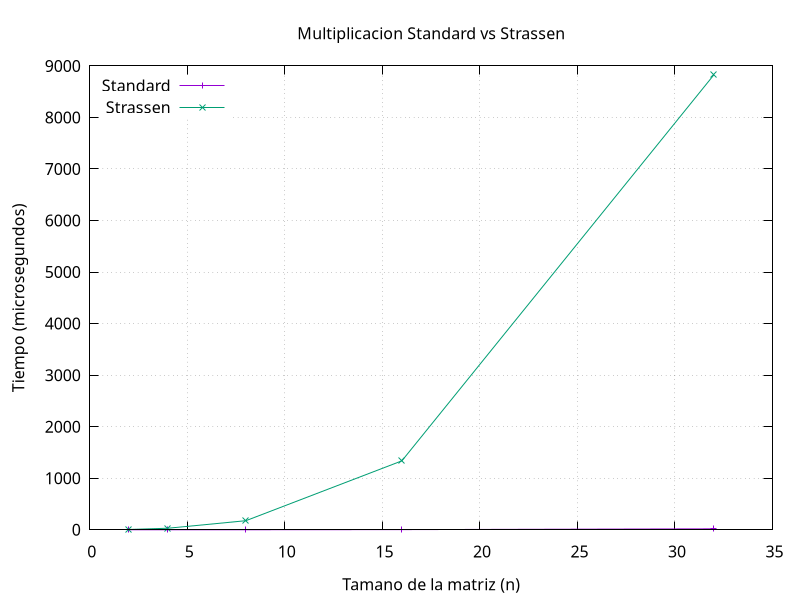
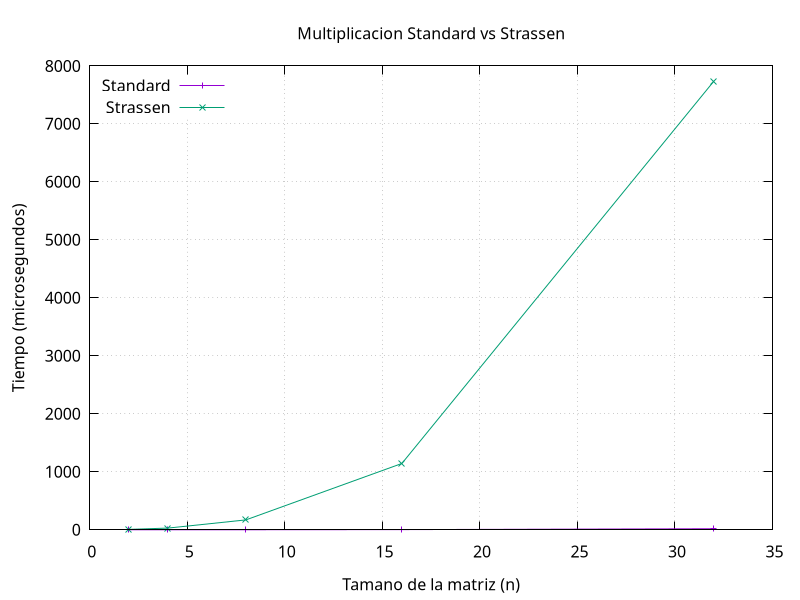
Refactorizacion de codigo sin intento en la solucion del rendimiento para Strassen

diff --git a/main.cpp b/main.cpp
@@ -12,6 +12,28 @@ void matrixMultiplication(std::vector<std::vector<int>>& A, std::vector<std::vec
     }
 }
 
+std::vector<std::vector<int>> add(std::vector<std::vector<int>>& A, std::vector<std::vector<int>>& B){
+    int n = A.size();
+    std::vector<std::vector<int>> result(n, std::vector<int>(n, 0));
+    for(int i = 0; i < n; i++) {
+        for(int j = 0; j < n; j++) {
+            result[i][j] = A[i][j] + B[i][j];
+        }
+    }
+    return result;
+}
+
+std::vector<std::vector<int>> subtract(std::vector<std::vector<int>>& A, std::vector<std::vector<int>>& B){
+    int n = A.size();
+    std::vector<std::vector<int>> result(n, std::vector<int>(n, 0));
+    for(int i = 0; i < n; i++) {
+        for(int j = 0; j < n; j++) {
+            result[i][j] = A[i][j] - B[i][j];
+        }
+    }
+    return result;
+}
+
 std::vector<std::vector<int>> matrixStrassen(std::vector<std::vector<int>>& A, std::vector<std::vector<int>>& B, std::vector<std::vector<int>>& C, int n){
     if(A.size() == 1 && B.size() == 1){
         C[0][0] = A[0][0] * B[0][0];
@@ -45,74 +67,35 @@ std::vector<std::vector<int>> matrixStrassen(std::vector<std::vector<int>>& A, s
             submatrixB_22[i][j] = B[i+subSize][j+subSize];
         }
     }
-    
     std::vector<std::vector<int>> P_1(subSize, std::vector<int>(subSize, 0));
-    std::vector<std::vector<int>> auxSubtract_1(subSize, std::vector<int>(subSize, 0));
-    for(int i = 0; i < subSize; i++){
-        for(int j = 0; j < subSize; j++){
-            auxSubtract_1[i][j]= submatrixB_12[i][j] - submatrixB_22[i][j];
-        }
-    }
+    std::vector<std::vector<int>> auxSubtract_1 = subtract(submatrixB_12, submatrixB_22);
     matrixStrassen(submatrixA_11, auxSubtract_1, P_1, subSize);
     
     std::vector<std::vector<int>> P_2(subSize, std::vector<int>(subSize, 0));
-    std::vector<std::vector<int>> auxAdd_2(subSize, std::vector<int>(subSize, 0));
-    for(int i = 0; i < subSize; i++){
-        for(int j = 0; j < subSize; j++){
-            auxAdd_2[i][j] = submatrixA_11[i][j] + submatrixA_12[i][j];
-        }
-    }
+    std::vector<std::vector<int>> auxAdd_2 = add(submatrixA_11, submatrixA_12);
     matrixStrassen(auxAdd_2, submatrixB_22, P_2, subSize);
 
     std::vector<std::vector<int>> P_3(subSize, std::vector<int>(subSize, 0));
-    std::vector<std::vector<int>> auxAdd_3(subSize, std::vector<int>(subSize, 0));
-    for(int i = 0; i < subSize; i++){
-        for(int j = 0; j < subSize; j++){
-            auxAdd_3[i][j] = submatrixA_21[i][j] + submatrixA_22[i][j];
-        }
-    }
+    std::vector<std::vector<int>> auxAdd_3 = add(submatrixA_21, submatrixA_22);
     matrixStrassen(auxAdd_3, submatrixB_11, P_3, subSize);
 
     std::vector<std::vector<int>> P_4(subSize, std::vector<int>(subSize, 0));
-    std::vector<std::vector<int>> auxSubtract_4(subSize, std::vector<int>(subSize, 0));
-    for(int i = 0; i < subSize; i++){
-        for(int j = 0; j < subSize; j++){
-            auxSubtract_4[i][j] = submatrixB_21[i][j] - submatrixB_11[i][j];
-        }
-    }
+    std::vector<std::vector<int>> auxSubtract_4 = subtract(submatrixB_21, submatrixB_11);
     matrixStrassen(submatrixA_22, auxSubtract_4, P_4, subSize);
 
     std::vector<std::vector<int>> P_5(subSize, std::vector<int>(subSize, 0));
-    std::vector<std::vector<int>> auxAdd_5A(subSize, std::vector<int>(subSize, 0));
-    std::vector<std::vector<int>> auxAdd_5B(subSize, std::vector<int>(subSize, 0));
-    for(int i = 0; i < subSize; i++){
-        for(int j = 0; j < subSize; j++){
-            auxAdd_5A[i][j] = submatrixA_11[i][j] + submatrixA_22[i][j];
-            auxAdd_5B[i][j] = submatrixB_11[i][j] + submatrixB_22[i][j];
-        }
-    }
+    std::vector<std::vector<int>> auxAdd_5A = add(submatrixA_11, submatrixA_22);
+    std::vector<std::vector<int>> auxAdd_5B = add(submatrixB_11, submatrixB_22);
     matrixStrassen(auxAdd_5A, auxAdd_5B, P_5, subSize);
 
     std::vector<std::vector<int>> P_6(subSize, std::vector<int>(subSize, 0));
-    std::vector<std::vector<int>> auxSubtract_6(subSize, std::vector<int>(subSize, 0));
-    std::vector<std::vector<int>> auxAdd_6(subSize, std::vector<int>(subSize, 0));
-    for(int i = 0; i < subSize; i++){
-        for(int j = 0; j < subSize; j++){
-            auxSubtract_6[i][j] = submatrixA_12[i][j] - submatrixA_22[i][j];
-            auxAdd_6[i][j] = submatrixB_21[i][j] + submatrixB_22[i][j];
-        }
-    }
+    std::vector<std::vector<int>> auxSubtract_6 = subtract(submatrixA_12, submatrixA_22);
+    std::vector<std::vector<int>> auxAdd_6 = add(submatrixB_21, submatrixB_22);
     matrixStrassen(auxSubtract_6, auxAdd_6, P_6, subSize);
 
     std::vector<std::vector<int>> P_7(subSize, std::vector<int>(subSize, 0));
-    std::vector<std::vector<int>> auxSubtract_7(subSize, std::vector<int>(subSize, 0));
-    std::vector<std::vector<int>> auxAdd_7(subSize, std::vector<int>(subSize, 0));
-    for(int i = 0; i < subSize; i++){
-        for(int j = 0; j < subSize; j++){
-            auxSubtract_7[i][j] = submatrixA_11[i][j] - submatrixA_21[i][j];
-            auxAdd_7[i][j] = submatrixB_11[i][j] + submatrixB_12[i][j];
-        }
-    }
+    std::vector<std::vector<int>> auxSubtract_7 = subtract(submatrixA_11, submatrixA_21);
+    std::vector<std::vector<int>> auxAdd_7 = add(submatrixB_11, submatrixB_12);
     matrixStrassen(auxSubtract_7, auxAdd_7, P_7, subSize);
 
     std::vector<std::vector<int>> submatrixC_11(subSize, std::vector<int>(subSize, 0));
